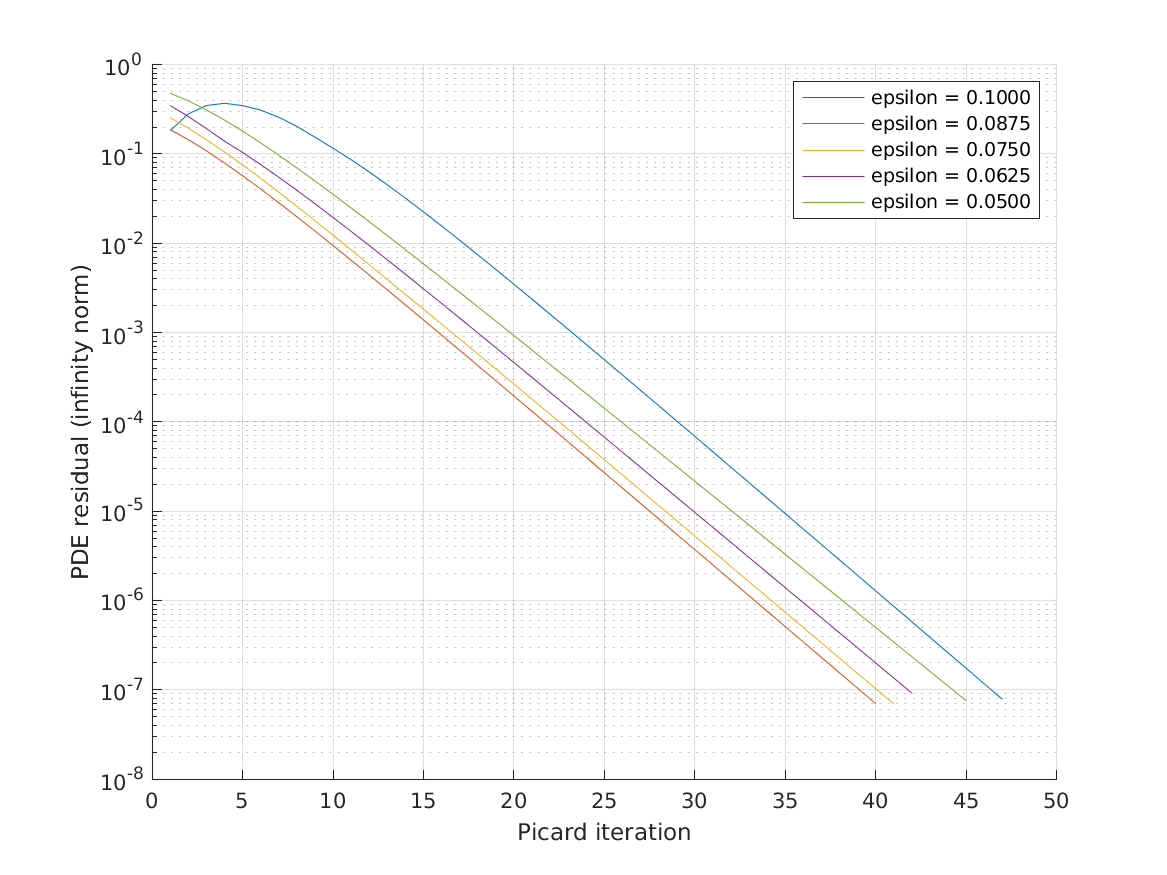
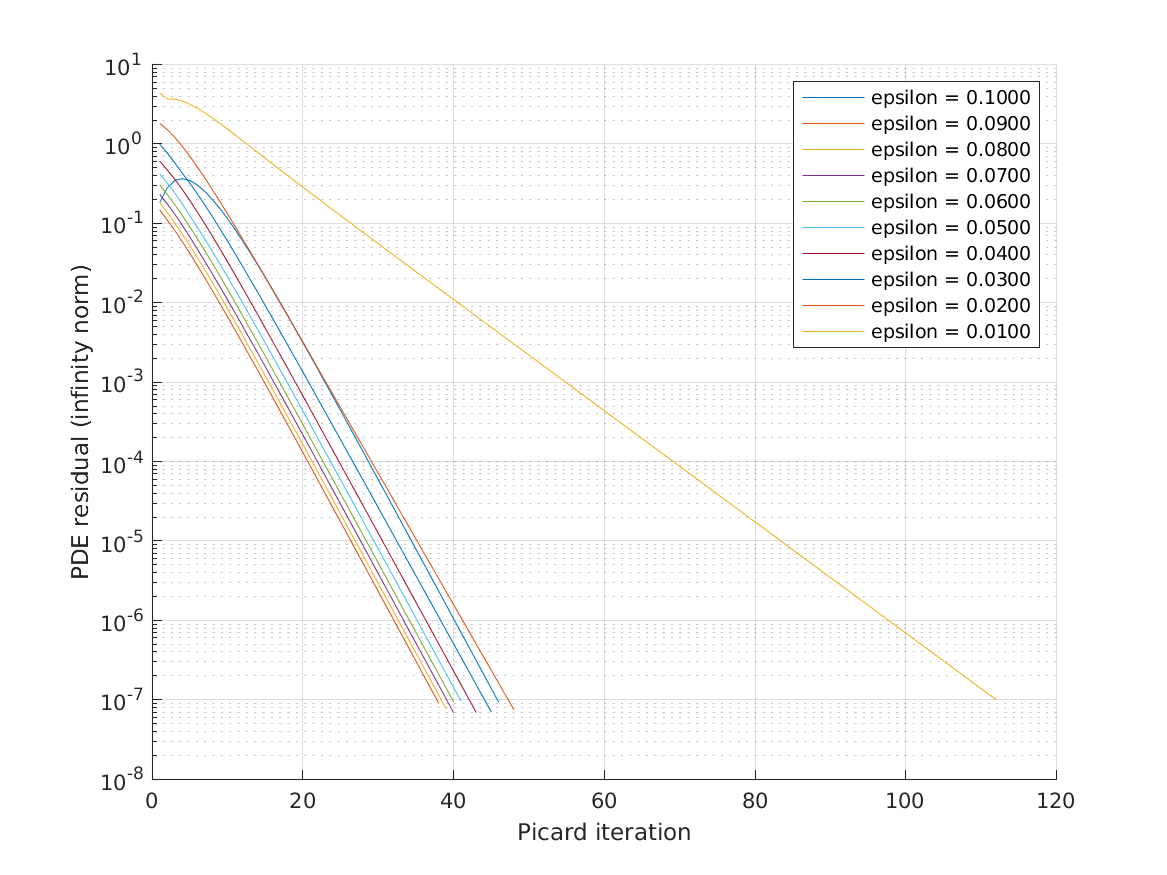
Regenerate outputs and docs for the poster's grid and epsilon range
Outputs copied from MATLAB R2024b CI run 45554193101 on 6354260.

diff --git a/docs/validation.md b/docs/validation.md
@@ -3,7 +3,7 @@
 All results below come from **MATLAB 24.2.0.3361896 (R2024b), Update 10**, on an Ubuntu GitHub-hosted runner.
 
 - Grid refinement tests: [CI run](https://github.com/dchwu2003/Non-linear-PDE-solver/actions/runs/40029637502) on 2026-10-23, code version [`3a89a08501076936d17c97f0cd1213e4c75a5bb1`](https://github.com/dchwu2003/Non-linear-PDE-solver/commit/3a89a08501076936d17c97f0cd1213e4c75a5bb1).
-- Default example: [CI run](https://github.com/dchwu2003/Non-linear-PDE-solver/actions/runs/45551286221) on 2026-11-25, code version [`d9217f36a020086f1d1273389697eb9511c7196d`](https://github.com/dchwu2003/Non-linear-PDE-solver/commit/d9217f36a020086f1d1273389697eb9511c7196d). The test problems do not use the default boundary values. This run reproduced the grid refinement table below to the digits shown.
+- Default example: [CI run](https://github.com/dchwu2003/Non-linear-PDE-solver/actions/runs/45554193101) on 2026-11-25, code version [`63542602fb64d9066e38003398b4aebb92d01e80`](https://github.com/dchwu2003/Non-linear-PDE-solver/commit/63542602fb64d9066e38003398b4aebb92d01e80). The test problems do not use the default example settings. This run reproduced the grid refinement table below to the digits shown.
 
 Both runs passed the tests and the full example, including figure generation. The CSV files and figures in this repository are copies of those runs' output, not hand-made examples. Running the commands in the README writes new outputs to `results/` and does not overwrite these copies.
 
@@ -25,27 +25,32 @@ Full-precision data: [analytic.csv](data/analytic.csv) (x-only test), [manufactu
 
 ## Default example: lowering ε step by step
 
-The example uses 121 x 61 nodes on `[0,6] x [0,5]`, left/right values 1 and -1, zero y derivatives on the top and bottom, relaxation 0.5, relative update tolerance `1e-8`, and absolute residual tolerance `1e-7`. Every ε value is solved. The change in the solution from one ε to the next is recorded but is not used to stop.
+The example uses 320 x 270 nodes on `[0,6] x [0,5]`, left/right values 1 and -1, ε = `linspace(0.1,0.01,10)`, zero y derivatives on the top and bottom, relaxation 0.5, relative update tolerance `1e-8`, and absolute residual tolerance `1e-7`. Every ε value is solved. The change in the solution from one ε to the next is recorded but is not used to stop.
 
-The boundary values match the December 2025 poster (+1/−1). The ε range and grid differ from the poster's run (ε down to 0.01, 320×270 grid). The poster's results stopped each ε once the relative change was below 1e-3 (at most 30 iterations). This run extends them with the tighter tolerances above.
+The boundary values, grid and ε range match the December 2025 poster. The poster's results stopped each ε once the relative change was below 1e-3 (at most 30 iterations). This run extends them with the tighter tolerances above.
 
 | ε | Iterations | Final residual | Maximum cell Péclet number |
 |---|---:|---:|---:|
-| 0.1000 | 47 | 7.8489e-8 | 0.250 |
-| 0.0875 | 40 | 7.0058e-8 | 0.286 |
-| 0.0750 | 41 | 6.9440e-8 | 0.333 |
-| 0.0625 | 42 | 9.1954e-8 | 0.400 |
-| 0.0500 | 45 | 7.5689e-8 | 0.500 |
+| 0.1000 | 46 | 9.2503e-8 | 0.094 |
+| 0.0900 | 38 | 9.1315e-8 | 0.104 |
+| 0.0800 | 39 | 7.7108e-8 | 0.118 |
+| 0.0700 | 40 | 6.8750e-8 | 0.134 |
+| 0.0600 | 40 | 9.3902e-8 | 0.157 |
+| 0.0500 | 41 | 9.5654e-8 | 0.188 |
+| 0.0400 | 43 | 6.9092e-8 | 0.235 |
+| 0.0300 | 45 | 7.0081e-8 | 0.313 |
+| 0.0200 | 48 | 7.4811e-8 | 0.470 |
+| 0.0100 | 112 | 9.9815e-8 | 0.940 |
 
 ![Residual history for each ε](figures/residuals.png)
 
-At each ε, the residual drops steadily after the first few iterations. The sparse matrices are built once per ε. We make no claims about speed.
+At each ε, the residual drops steadily after the first few iterations. The smallest ε, 0.01, needs more iterations than the others. The sparse matrices are built once per ε. We make no claims about speed.
 
 ![Solution profiles at mid-height](figures/profiles.png)
 
 ![Final solution surface](figures/solution.png)
 
-The boundary values are equal and opposite, so the solution has flat states at 1 and -1 with a thin layer between them in the middle of the domain. At mid-height, the solution crosses zero at x = 3 for every ε, and the layer gets thinner as ε decreases. For these boundary data the solution does not depend on y. The small residuals show that the iteration solved the discrete equations. They do not measure how accurate the grid is in the thin layer. The grid refinement results above apply only to those two test problems and their settings.
+The boundary values are equal and opposite, so the solution has flat states at 1 and -1 with a thin layer between them in the middle of the domain. At mid-height, the solution crosses zero at x = 3 for every ε, and the layer gets thinner as ε decreases. At ε = 0.01 the layer is only about one grid spacing wide, so this grid is just fine enough there. For these boundary data the solution does not depend on y. The small residuals show that the iteration solved the discrete equations. They do not measure how accurate the grid is in the thin layer. The grid refinement results above apply only to those two test problems and their settings.
 
 Full-precision data: [continuation.csv](data/continuation.csv). The CI artifact `matlab-validation` contains the full solution arrays and histories in `example.mat` and the test report in `validation.mat`, subject to GitHub's artifact retention policy. The figures and CSV copies stay in the repository.
 

diff --git a/README.md b/README.md
@@ -22,17 +22,17 @@ The default example sets $u=1$ on the left edge and $u=-1$ on the right edge. On
 
 1. Start from the solution of a linear version of the problem, which leaves out the $u u_x$ term.
 2. Fix the current $u$ in the nonlinear term, so that the equation becomes linear. Solve the resulting sparse linear system. Take half a step from the old solution toward the new one. Repeat until the solution stops changing and the equation is satisfied to a small tolerance.
-3. Lower $\varepsilon$ step by step, from 0.1 to 0.05 over five values. Each step starts from the solution of the previous one. The grid stays the same.
+3. Lower $\varepsilon$ step by step, from 0.1 to 0.01 over ten values. Each step starts from the solution of the previous one. The grid stays the same.
 
 [docs/numerical-method.md](docs/numerical-method.md) has the formulas and the standard names for these steps.
 
-This release uses the poster's boundary values, +1 on the left and −1 on the right. Like the poster, the solution has two flat states, u ≈ 1 and u ≈ −1, with a thin layer between them at the middle of the domain (x ≈ 3). The release still differs from the poster in ε (lowered to 0.05 instead of 0.01) and in the grid (121×61 instead of 320×270). The poster's results used a looser stopping rule: the iteration stopped once the relative change was below 1e-3, with at most 30 iterations per ε. Building on those results, this release solves each ε more tightly: relative update below 1e-8 and residual below 1e-7, with at most 1000 iterations per ε.
+This release uses the poster's setup: boundary values +1 on the left and −1 on the right, a 320×270 grid, and ε lowered from 0.1 to 0.01. Like the poster, the solution has two flat states, u ≈ 1 and u ≈ −1, with a thin layer between them at the middle of the domain (x ≈ 3). The poster's results used a looser stopping rule: the iteration stopped once the relative change was below 1e-3, with at most 30 iterations per ε. Building on those results, this release solves each ε more tightly: relative update below 1e-8 and residual below 1e-7, with at most 1000 iterations per ε.
 
 The default boundary data do not depend on y, so the default solution does not depend on y either. Its plot therefore does not exercise the y direction of the code. A separate test problem whose solution varies in y covers that.
 
 ## Results
 
-We used two test problems with known exact solutions, one depending only on x and one depending on both x and y. On both, the error shrinks at the expected second-order rate as the grid is refined: observed orders were 1.993–2.002 and 2.001–2.004 in MATLAB R2024b. At each of the five ε values in the default example, the iteration brought the equation residual below `1e-7`. These checks cover the test problems only. They do not show how accurate the grid is for the thin transition layer in the default example.
+We used two test problems with known exact solutions, one depending only on x and one depending on both x and y. On both, the error shrinks at the expected second-order rate as the grid is refined: observed orders were 1.993–2.002 and 2.001–2.004 in MATLAB R2024b. At each of the ten ε values in the default example, the iteration brought the equation residual below `1e-7`. These checks cover the test problems only. They do not show how accurate the grid is for the thin transition layer in the default example.
 
 ![Error versus grid size at fixed epsilon](docs/figures/grid_convergence.png)
 
@@ -81,9 +81,9 @@ Edit `default_config.m` to change the example:
 
 | Parameter | Default |
 |---|---:|
-| Grid nodes `Nx`, `Ny` | 121, 61 |
+| Grid nodes `Nx`, `Ny` | 320, 270 |
 | Domain lengths `Lx`, `Ly` | 6, 5 |
-| ε values | `linspace(0.1,0.05,5)` |
+| ε values | `linspace(0.1,0.01,10)` |
 | Left/right boundary values | 1, −1 |
 | Maximum iterations per ε | 1000 |
 | Relative update tolerance | `1e-8` |
